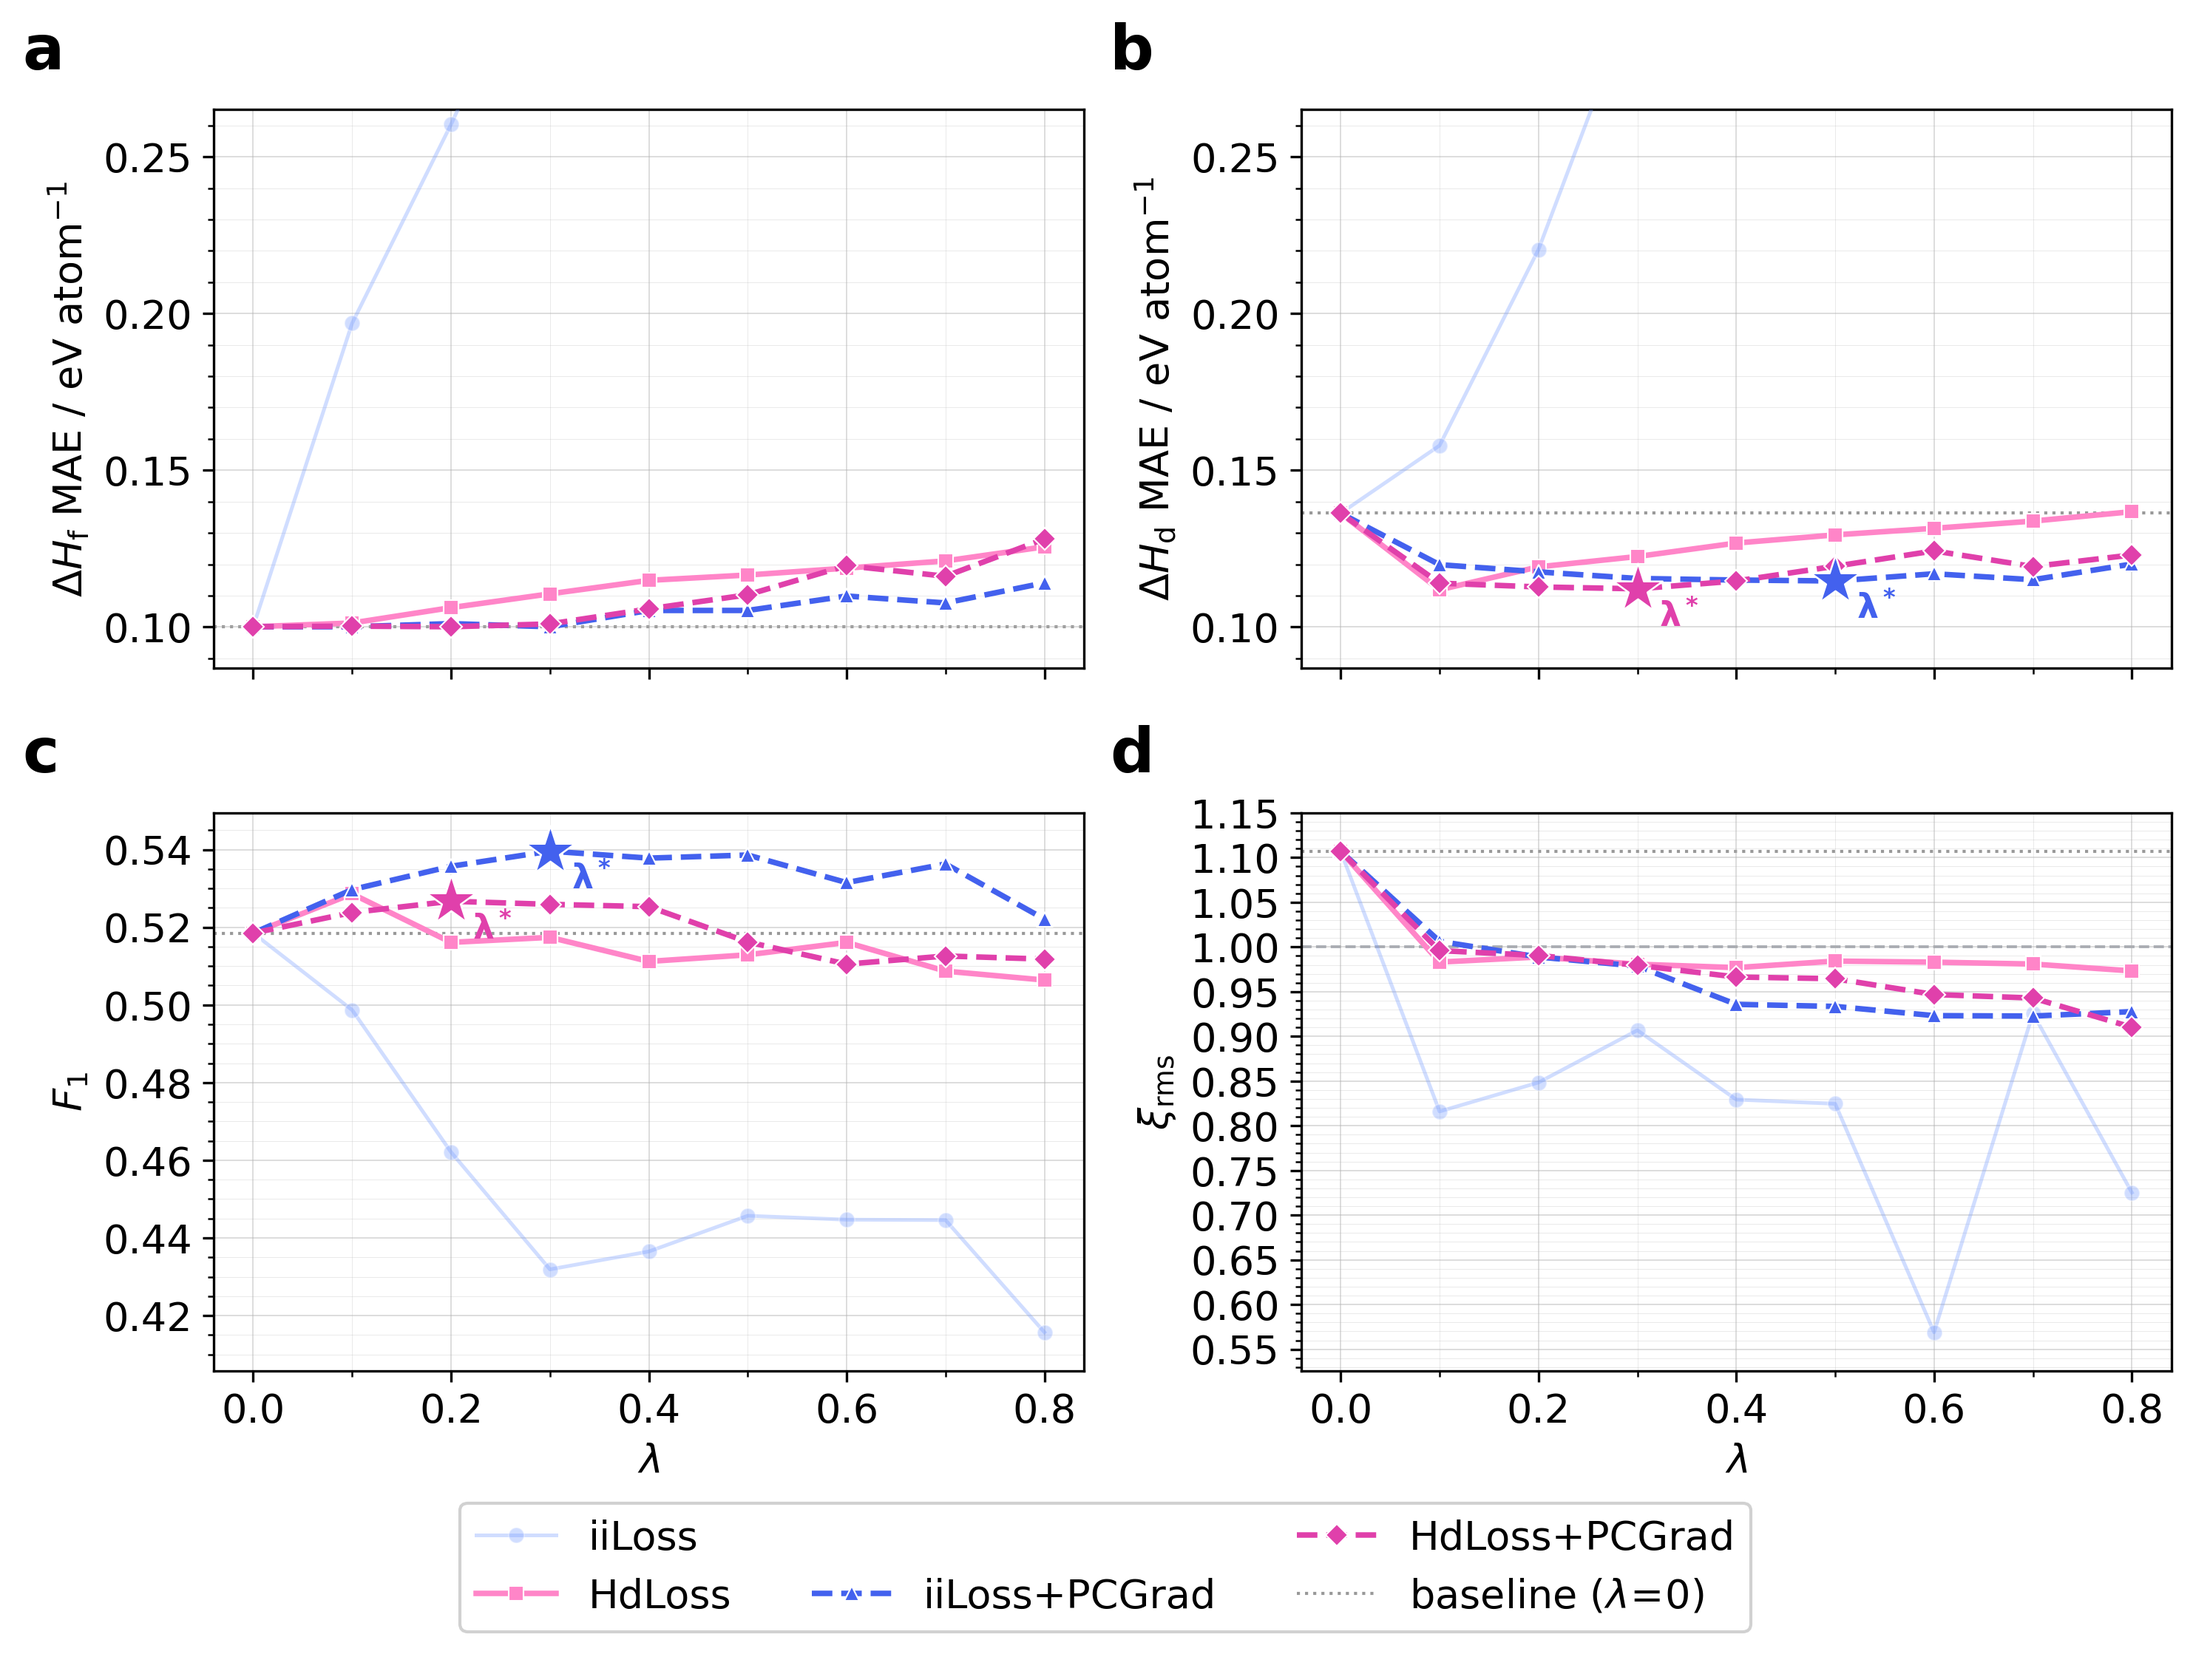
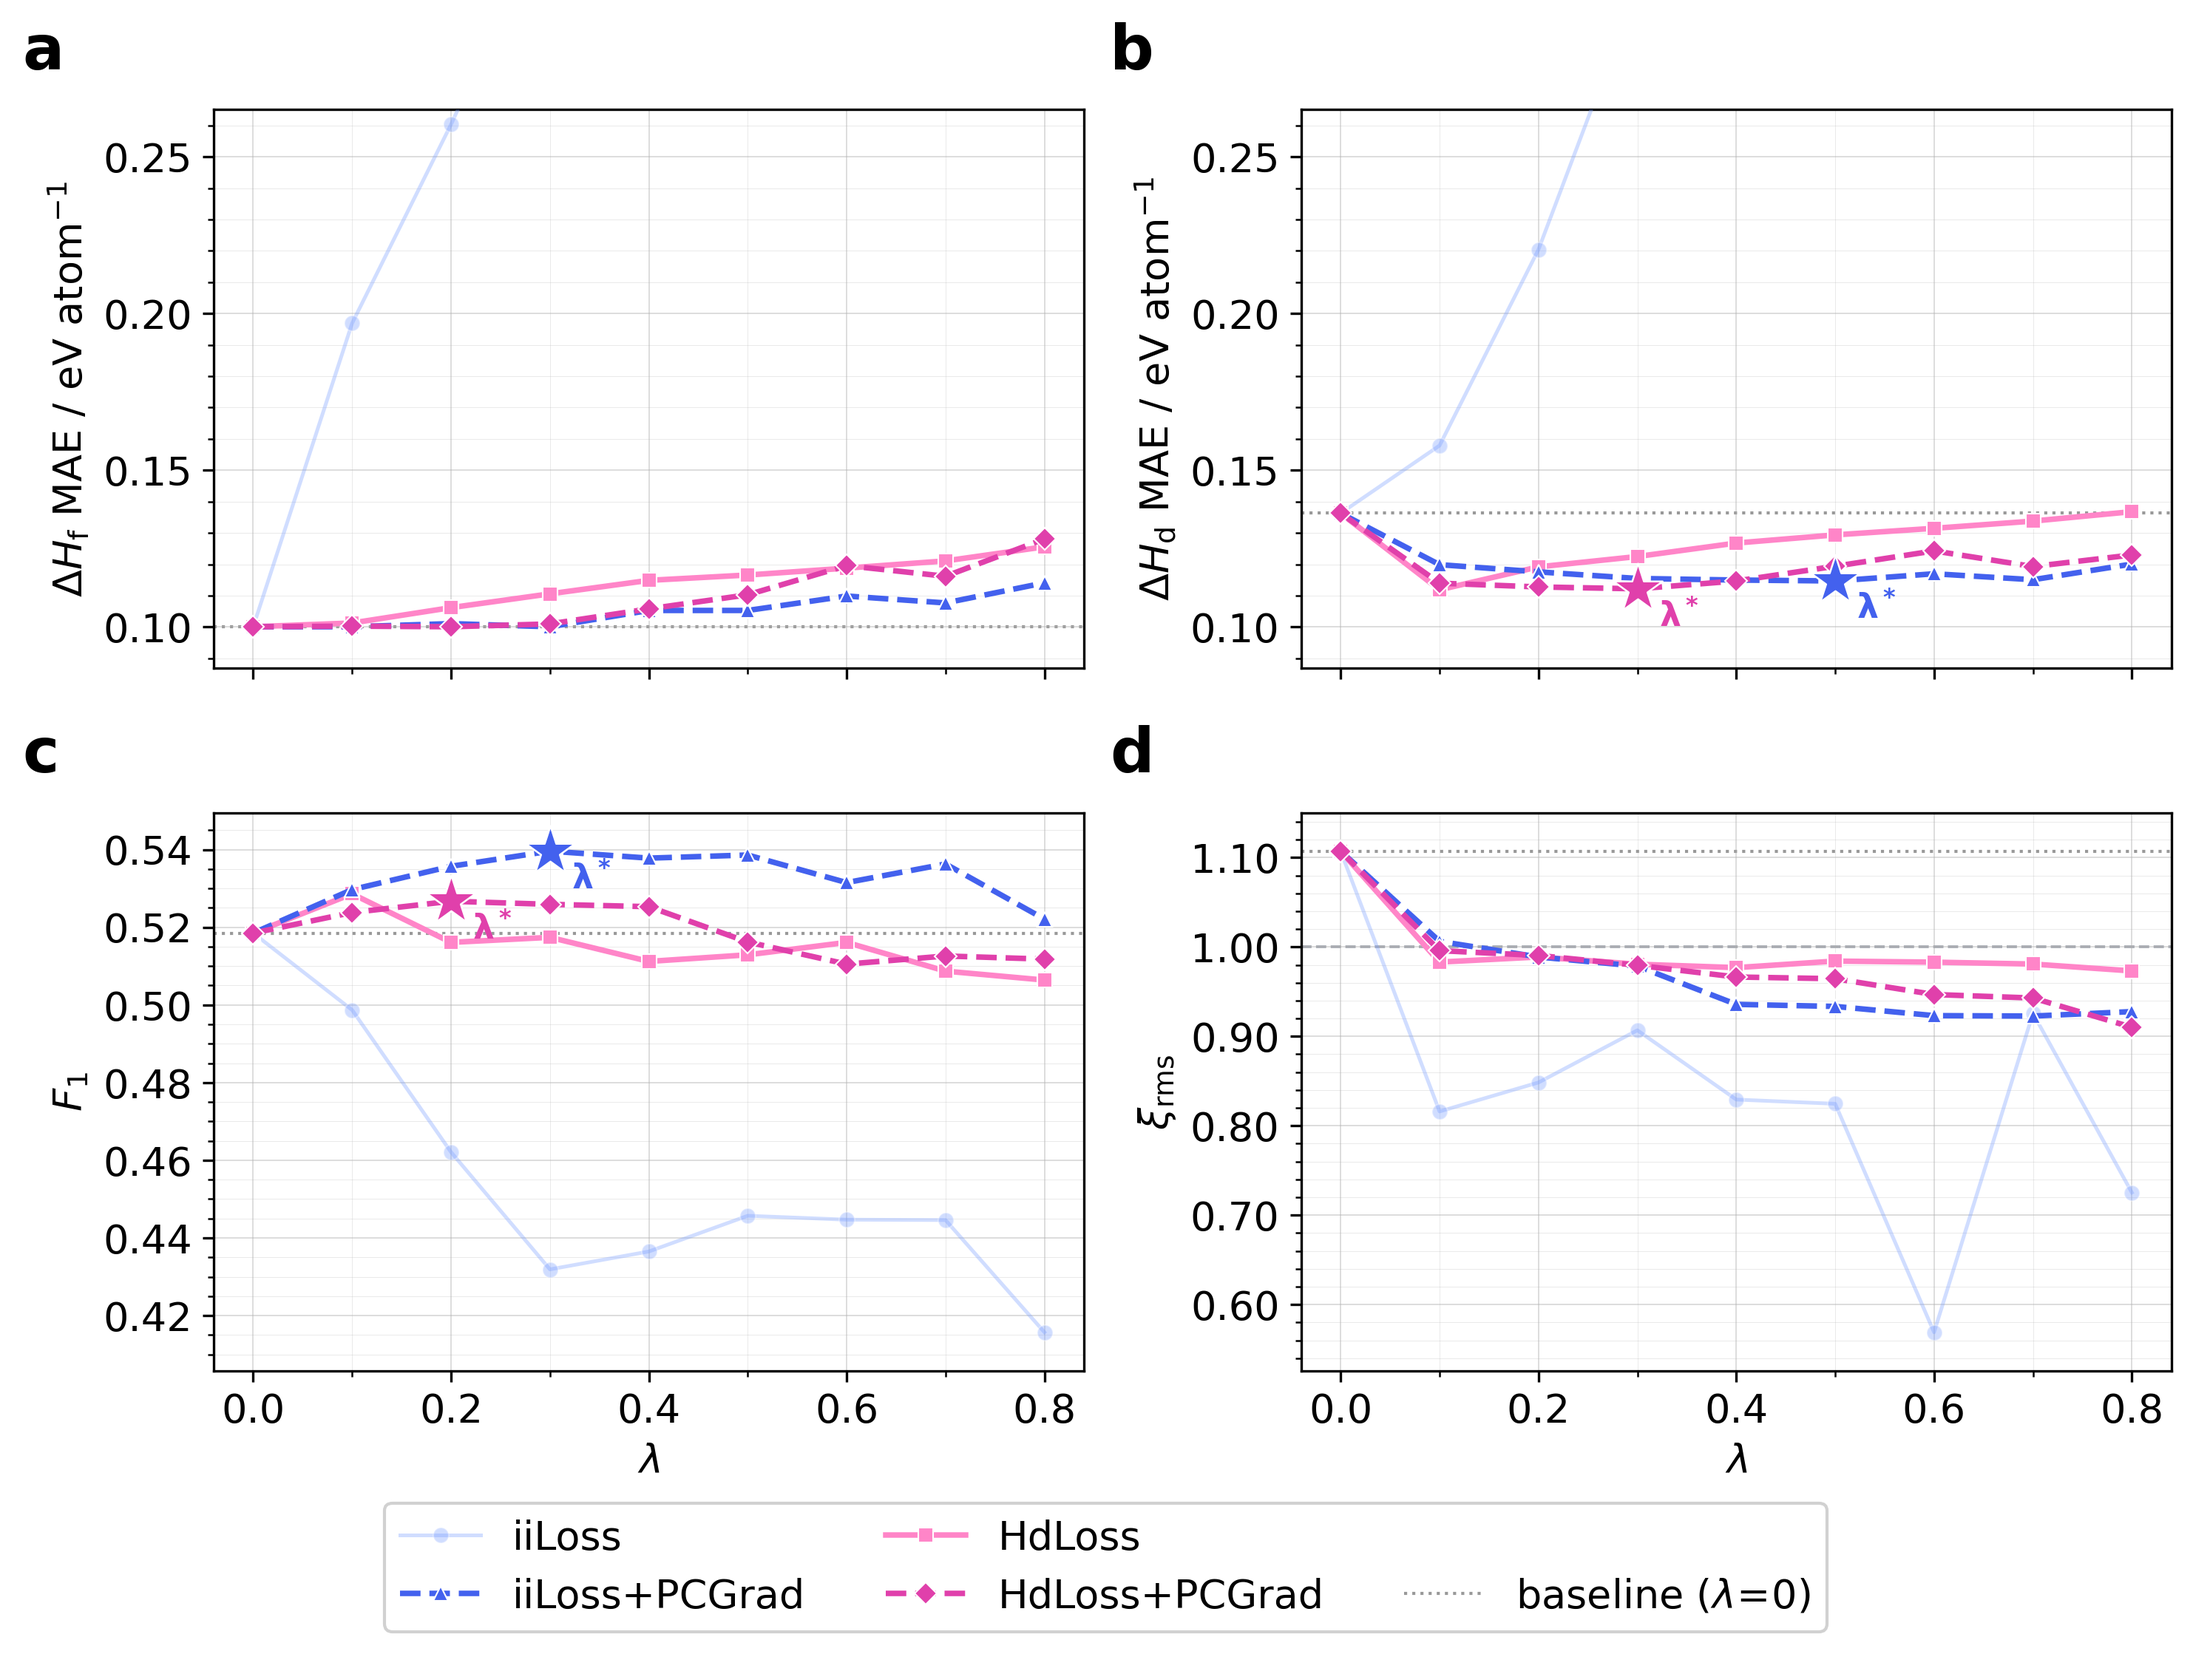
fig6 update

diff --git a/scripts/figures/fig6_lambda_sweep.py b/scripts/figures/fig6_lambda_sweep.py
@@ -156,8 +156,8 @@ def main():
             ax.yaxis.set_minor_locator(ticker.MultipleLocator(0.005))
             ax.margins(y=0.08)
         elif col == "rms_xi":
-            ax.yaxis.set_major_locator(ticker.MultipleLocator(0.05))
-            ax.yaxis.set_minor_locator(ticker.MultipleLocator(0.01))
+            ax.yaxis.set_major_locator(ticker.MultipleLocator(0.1))
+            ax.yaxis.set_minor_locator(ticker.MultipleLocator(0.02))
             ax.margins(y=0.08)
             ax.axhline(1.0, color='#6B7280', lw=0.9, ls='--', alpha=0.6,
                        zorder=1, label=r'i.i.d. ($\xi_\mathrm{rms}=1$)')
@@ -202,13 +202,12 @@ def main():
 
     blank = Patch(visible=False)
     LEGEND_ORDER = [
-        "iiLoss", "HdLoss", "iiLoss+PCGrad", "HdLoss+PCGrad",
-        r"baseline ($\lambda\!=\!0$)",
+        "iiLoss", "iiLoss+PCGrad","HdLoss", "HdLoss+PCGrad",r"baseline ($\lambda\!=\!0$)"
     ]
     ordered    = [seen[l] for l in LEGEND_ORDER if l in seen]
     labels_leg = [l       for l in LEGEND_ORDER if l in seen]
-    ordered.insert(2, blank)
-    labels_leg.insert(2, "")
+    ordered.insert(4, blank)
+    labels_leg.insert(4, "")
     fig.legend(ordered, labels_leg,
                loc="lower center", ncol=3,
                fontsize=_FS_LEG, framealpha=0.9,
